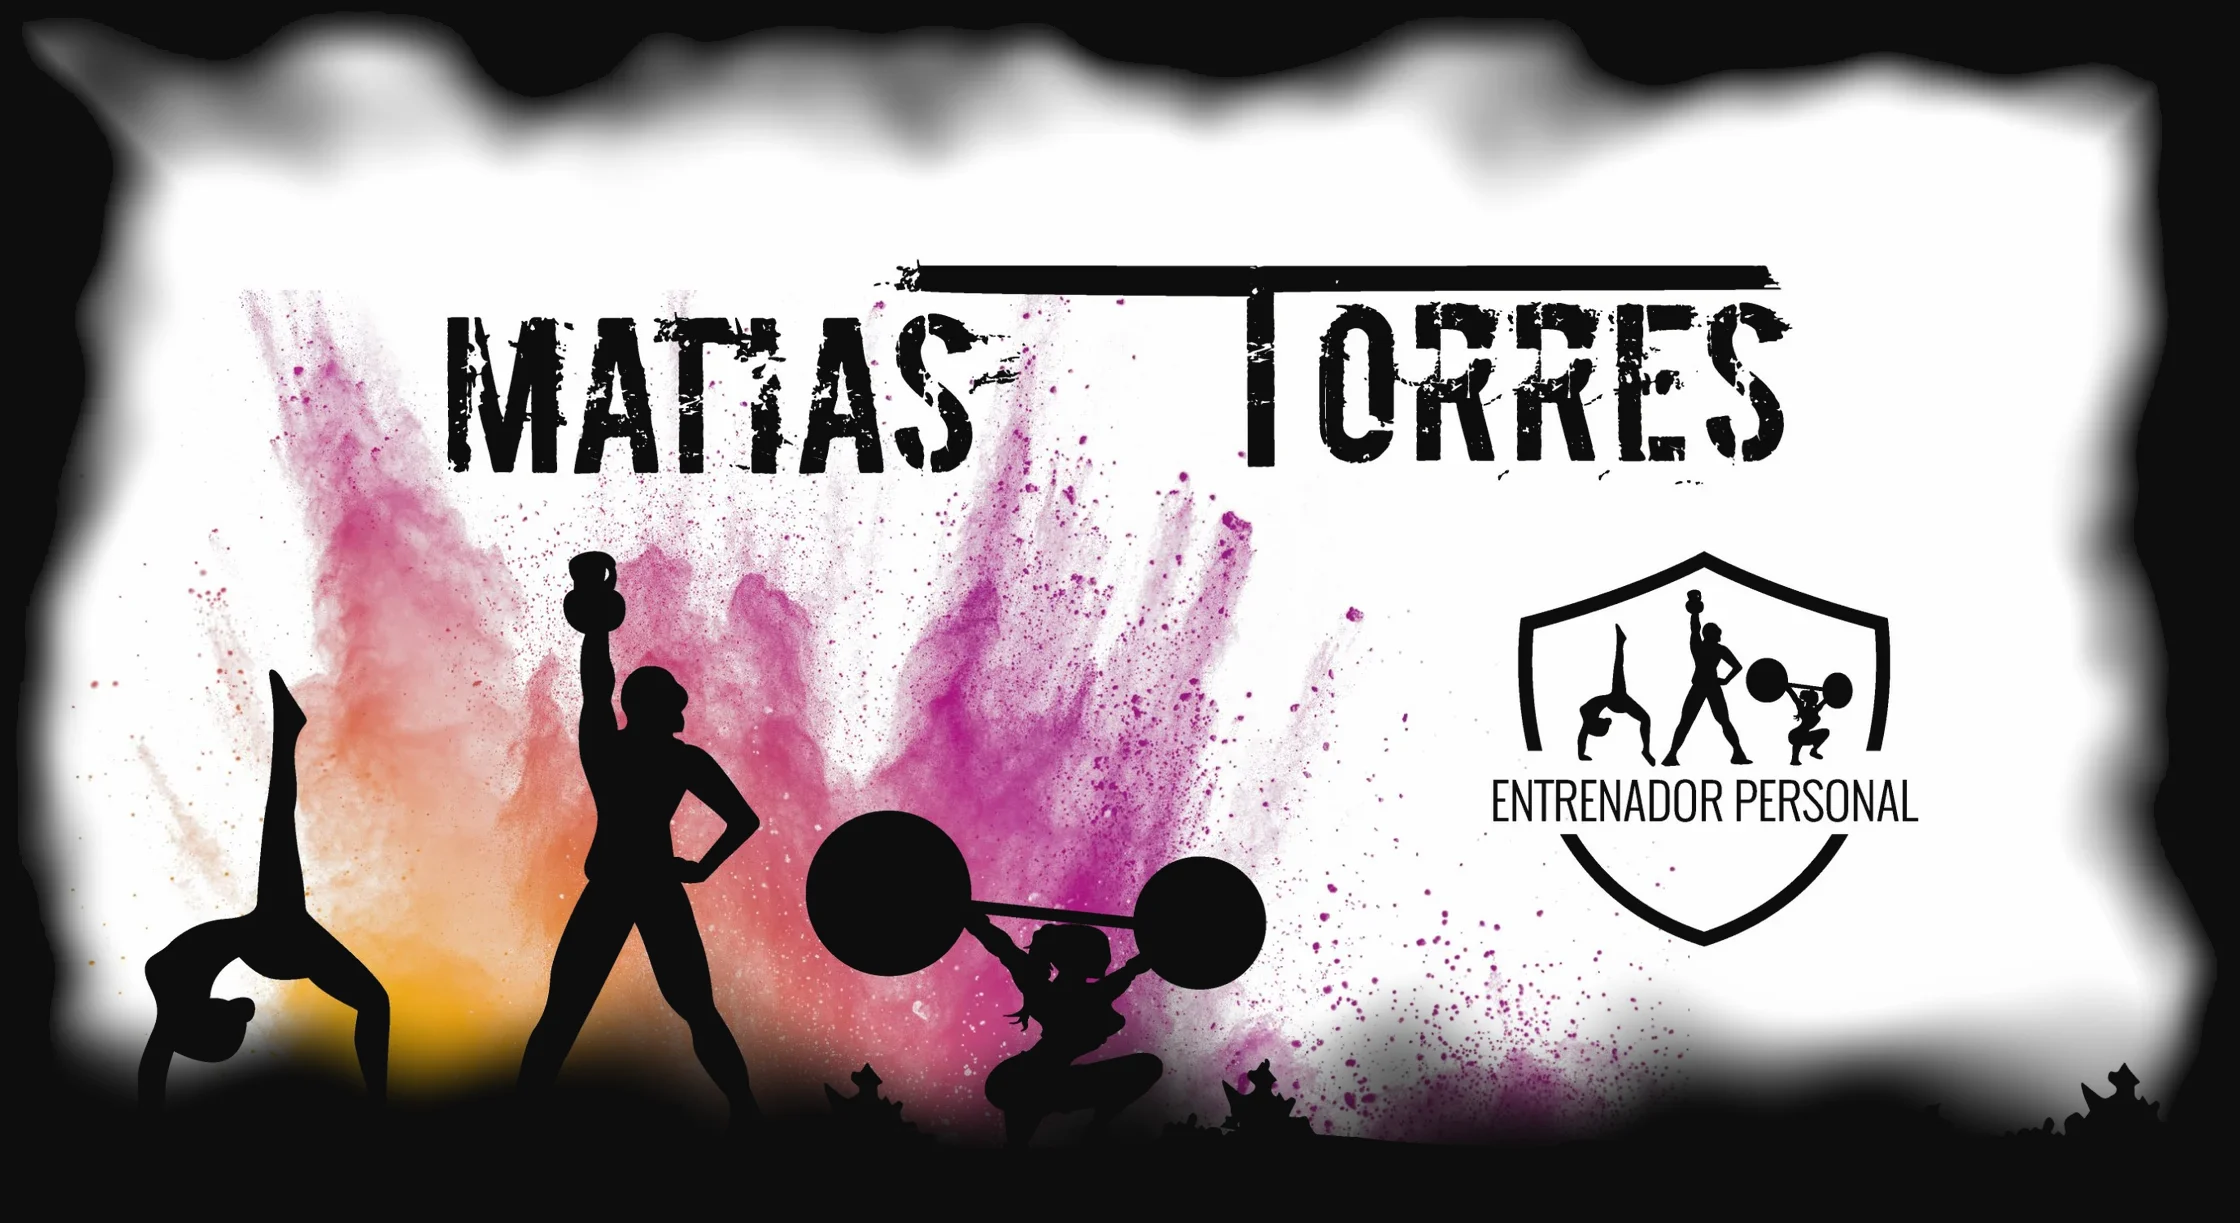
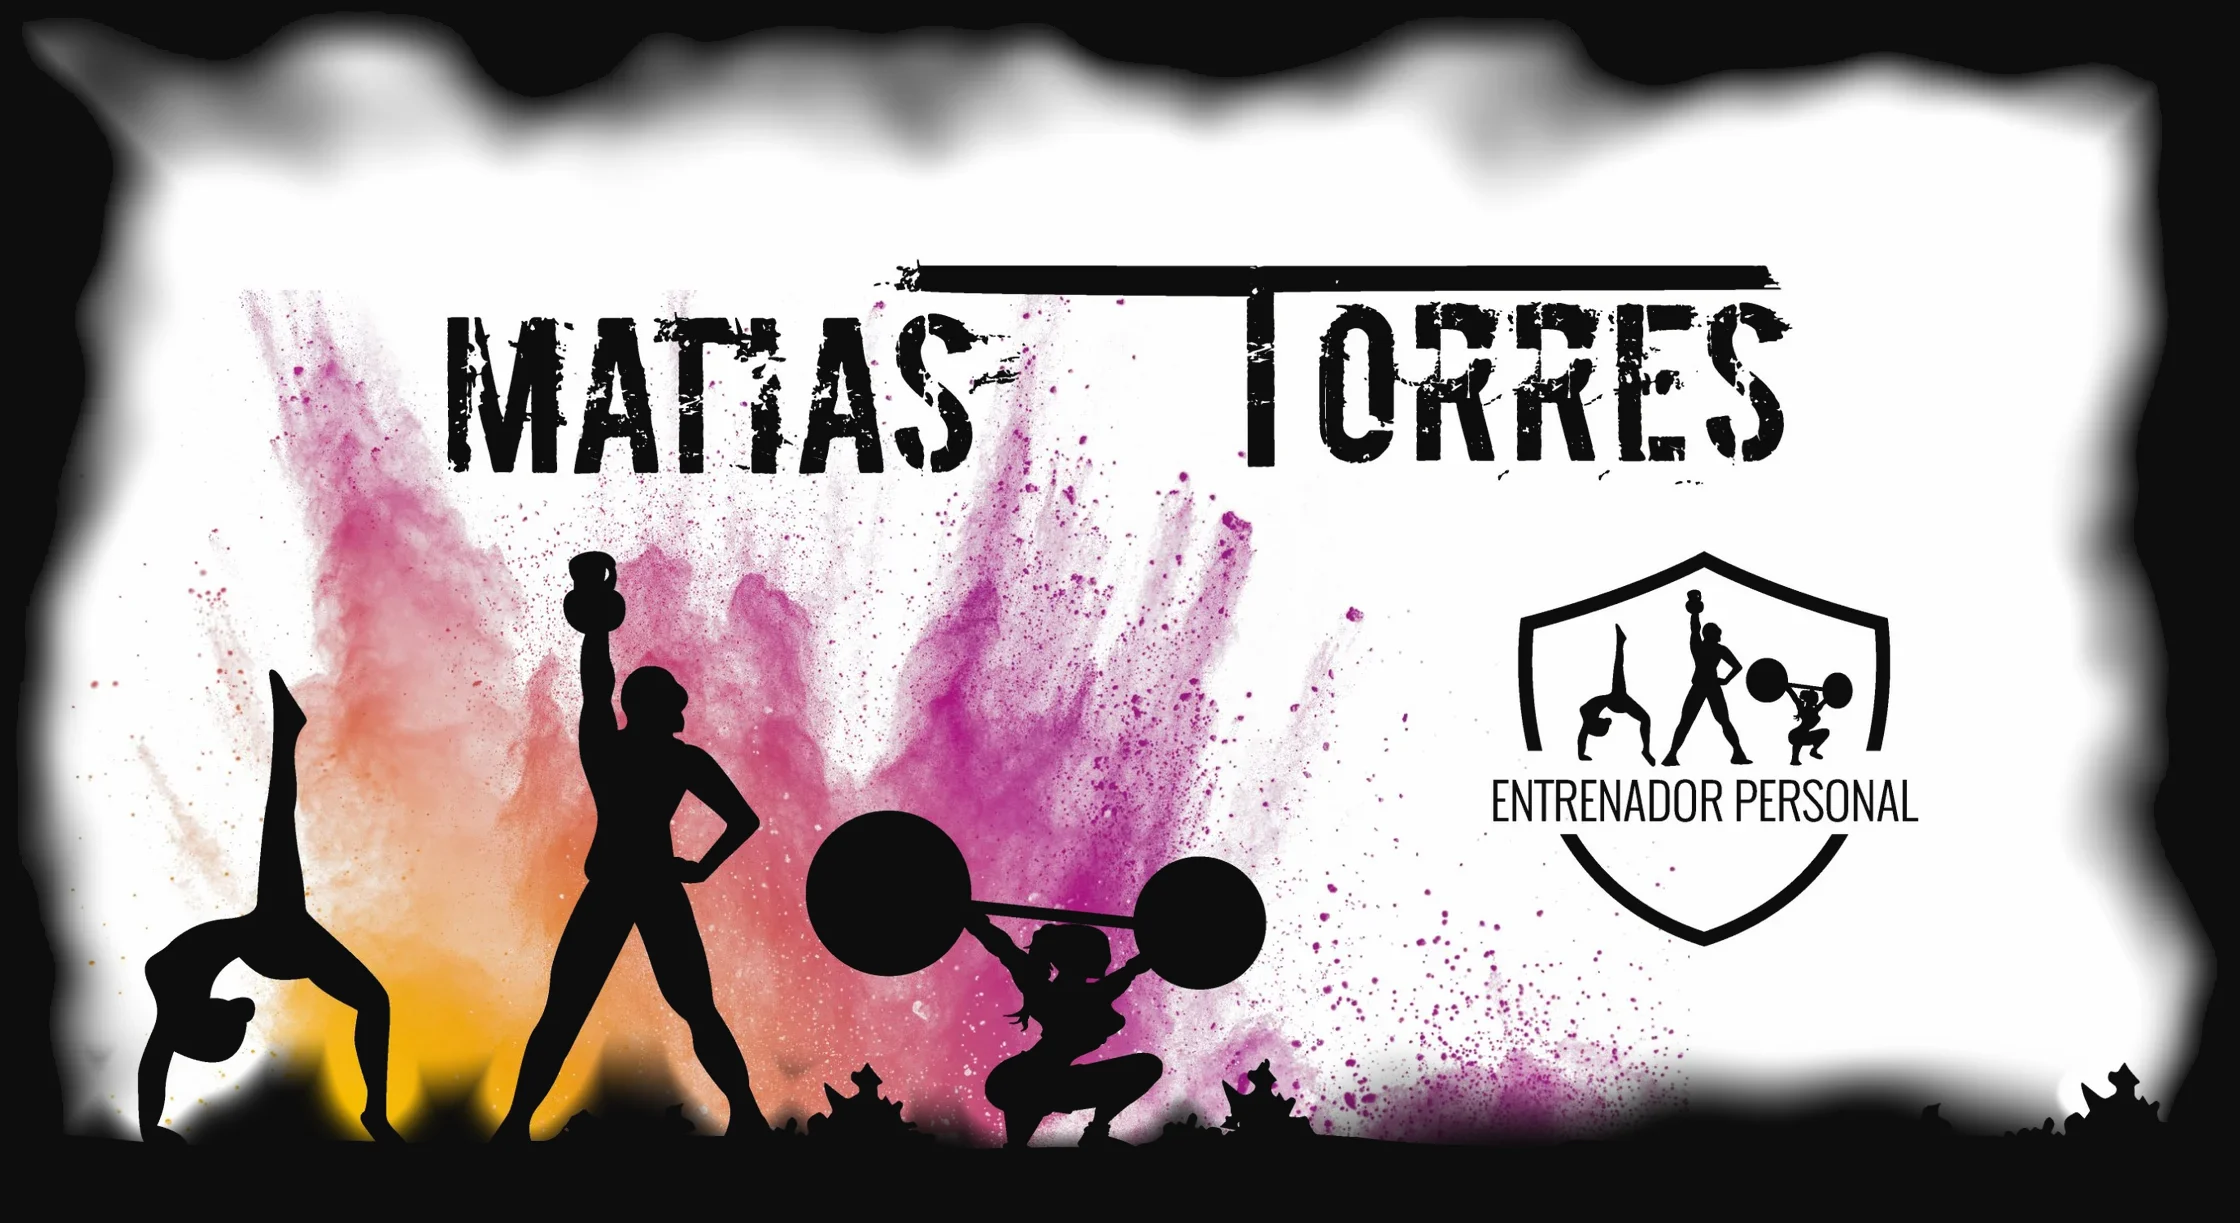
Boceto: difuminado inferior que respeta las figuras
Claude-Session: https://claude.ai/code/session_01NkzjExiwYDXCqzzxEzx9mz

Changed region(s): [[0.0, 0.7768, 1.0, 0.9632]]

diff --git a/pruebas/boceto-frase.html b/pruebas/boceto-frase.html
@@ -1213,7 +1213,7 @@ html,body{overflow-x:clip}
       <p>Lo que nos cuentas, se queda aquí. Tú solo vienes a <strong class="ce-y">ponerte fuerte, perder peso o dejar atrás el dolor</strong>.</p>
     </div>
     <figure class="ce-mural" data-lb>
-      <img src="fotos/mural-w2c.webp?v=1" width="2240" height="1223" alt="Mural de 9 por 4 metros a la entrada del centro: Matías Torres, entrenador personal, con tres siluetas entrenando sobre una explosión de color" loading="lazy" decoding="async">
+      <img src="fotos/mural-w2c.webp?v=2" width="2240" height="1223" alt="Mural de 9 por 4 metros a la entrada del centro: Matías Torres, entrenador personal, con tres siluetas entrenando sobre una explosión de color" loading="lazy" decoding="async">
       <figcaption class="ce-claim"><span class="ce-c2"><span class="ce-l1">Dentro de 10 años tendrás el cuerpo que construyas hoy…</span><span class="ce-l2"><span>O el que descuides hoy…</span><span>Invierte en tu salud…</span></span></span></figcaption>
     </figure>
     <p class="ce-hint">Pulsa en una foto para verla en grande.</p>
